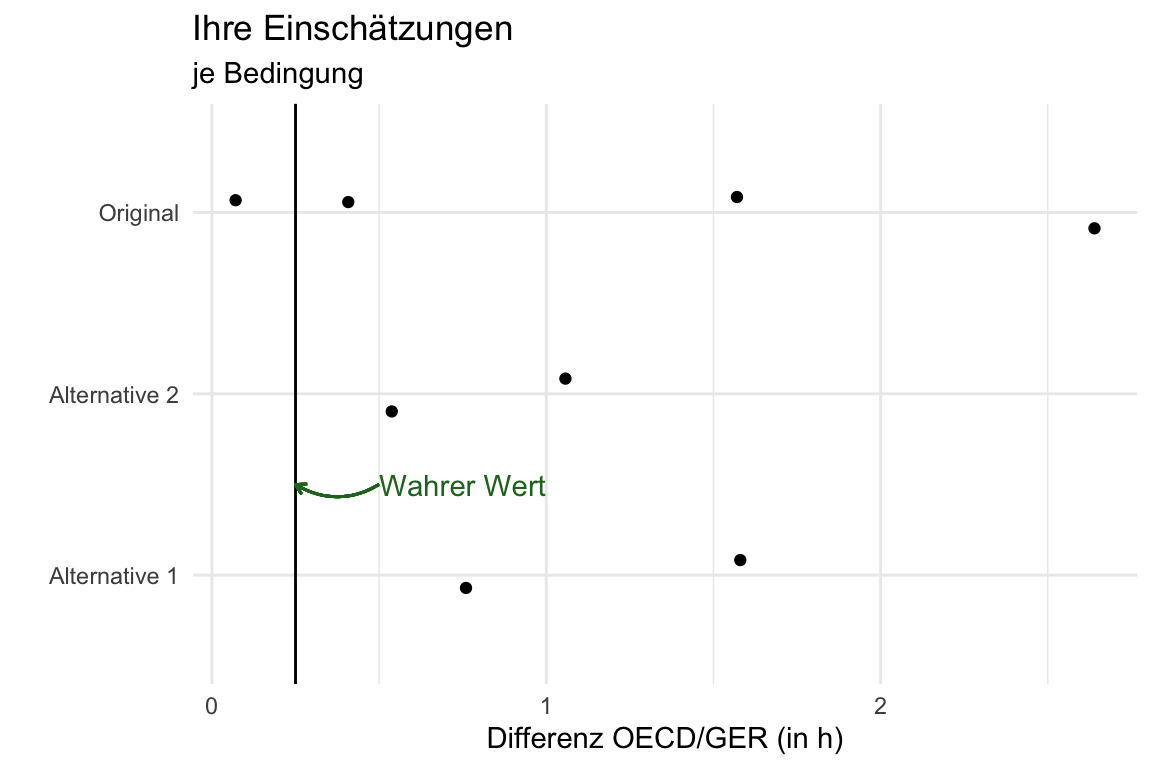
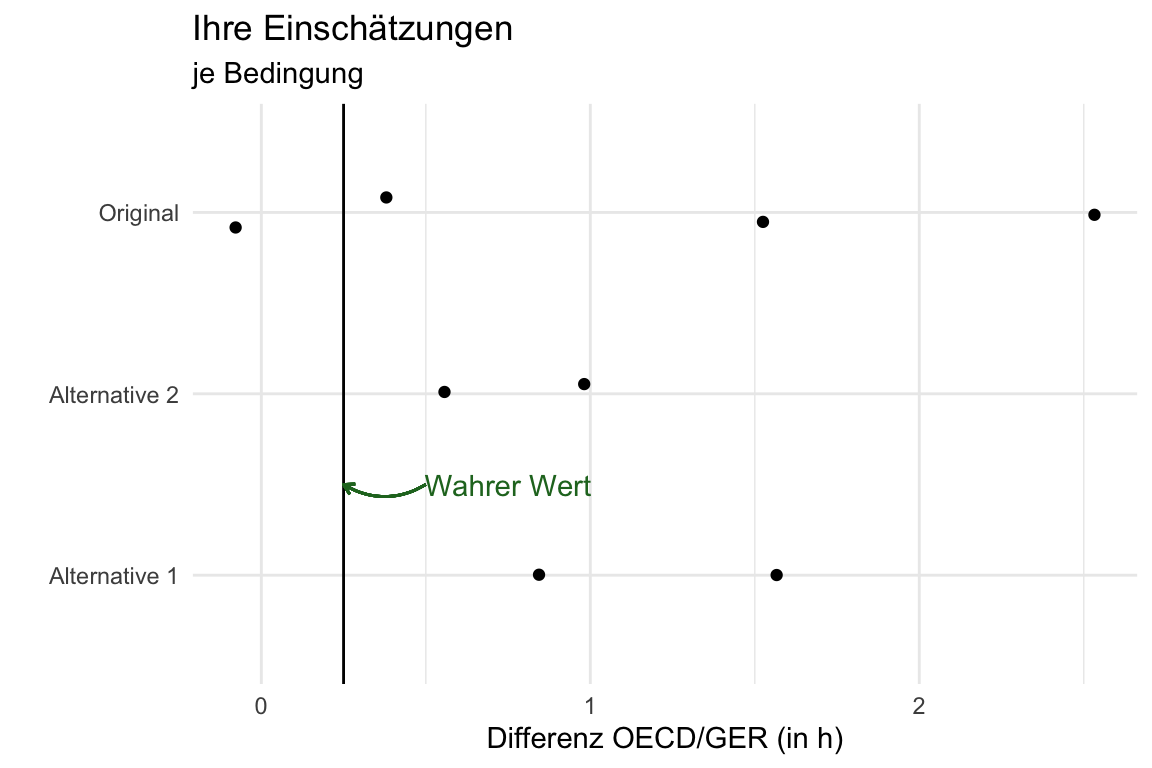
added js mw-diff app

diff --git a/Block03-Effektstaerken/Folien/Integrierte Apps/MW-Einschaetzung-js/index.html b/Block03-Effektstaerken/Folien/Integrierte Apps/MW-Einschaetzung-js/index.html
@@ -1,0 +1,275 @@
+<!DOCTYPE html>
+<html lang="en">
+<head>
+    <meta charset="UTF-8">
+    <meta name="viewport" content="width=device-width, initial-scale=1.0">
+    <title>Observable Notebook - Two Histograms</title>
+    <script src="https://cdnjs.cloudflare.com/ajax/libs/d3/7.8.5/d3.min.js"></script>
+    <style>
+        body {
+            font-family: -apple-system, BlinkMacSystemFont, "Segoe UI", Roboto, sans-serif;
+            margin: 0;
+            padding: 20px;
+            background-color: #fff;
+        }
+        .container {
+            max-width: 800px;
+            margin: 0 auto;
+        }
+        .histogram {
+            margin: 20px 0;
+        }
+        .axis {
+            font-size: 12px;
+        }
+        .axis-label {
+            font-size: 14px;
+            font-weight: 500;
+        }
+        .title {
+            font-size: 18px;
+            font-weight: 600;
+            margin-bottom: 30px;
+            text-align: center;
+        }
+    </style>
+</head>
+<body>
+    <div class="container">
+        <h1 class="title">Histogramme der Bildschirmzeit</h1>
+        <div id="histogram1" class="histogram"></div>
+        <div id="histogram2" class="histogram"></div>
+    </div>
+
+    <script>
+        try {
+            // Approximate inverse normal CDF (quantile function)
+            function qnorm(p) {
+                // Beasley-Springer-Moro algorithm for inverse normal CDF
+                const a = [0, -3.969683028665376e+01, 2.209460984245205e+02, -2.759285104469687e+02, 1.383577518672690e+02, -3.066479806614716e+01, 2.506628277459239e+00];
+                const b = [0, -5.447609879822406e+01, 1.615858368580409e+02, -1.556989798598866e+02, 6.680131188771972e+01, -1.328068155288572e+01];
+                const c = [0, -7.784894002430293e-03, -3.223964580411365e-01, -2.400758277161838e+00, -2.549732539343734e+00, 4.374664141464968e+00, 2.938163982698783e+00];
+                const d = [0, 7.784695709041462e-03, 3.224671290700398e-01, 2.445134137142996e+00, 3.754408661907416e+00];
+
+                const pLow = 0.02425;
+                const pHigh = 1 - pLow;
+                let q, r;
+
+                if (p < pLow) {
+                    q = Math.sqrt(-2 * Math.log(p));
+                    return (((((c[1] * q + c[2]) * q + c[3]) * q + c[4]) * q + c[5]) * q + c[6]) / ((((d[1] * q + d[2]) * q + d[3]) * q + d[4]) * q + 1);
+                } else if (p <= pHigh) {
+                    q = p - 0.5;
+                    r = q * q;
+                    return (((((a[1] * r + a[2]) * r + a[3]) * r + a[4]) * r + a[5]) * r + a[6]) * q / (((((b[1] * r + b[2]) * r + b[3]) * r + b[4]) * r + b[5]) * r + 1);
+                } else {
+                    q = Math.sqrt(-2 * Math.log(1 - p));
+                    return -(((((c[1] * q + c[2]) * q + c[3]) * q + c[4]) * q + c[5]) * q + c[6]) / ((((d[1] * q + d[2]) * q + d[3]) * q + d[4]) * q + 1);
+                }
+            }
+
+            // R's ppoints equivalent: (1:n - 0.5) / n
+            function ppoints(n) {
+                const points = [];
+                for (let i = 1; i <= n; i++) {
+                    points.push((i - 0.5) / n);
+                }
+                return points;
+            }
+
+            // Generate perfectly normally distributed data (R equivalent: qnorm(ppoints(n), mean, sd))
+            function generateNormalData(mean, stdDev, count) {
+                const probabilities = ppoints(count);
+                return probabilities.map(p => qnorm(p) * stdDev + mean);
+            }
+
+            // Function to calculate dynamic x-domain based on both datasets
+            function calculateXDomain(data1, data2) {
+                const allData = [...data1, ...data2];
+                const extent = d3.extent(allData);
+                return [Math.max(0, extent[0] - 0.5), extent[1] + 0.5];
+            }
+
+            // Configuration
+            const mean = 7;
+            const stdDev = 2.5;
+            const sampleSize = 10000;
+            const colors = ['#237326', '#f2f2f2'];
+            let lowerMean = mean;
+
+            // Chart dimensions
+            const margin = { top: 20, right: 30, bottom: 60, left: 60 };
+            const width = 700 - margin.left - margin.right;
+            const height = 250 - margin.bottom - margin.top;
+
+            // Create histogram function
+            function createHistogram(data, containerId, color, xDomain, histogramMean) {
+                // Clear previous content
+                d3.select(containerId).selectAll("*").remove();
+
+                // Create SVG
+                const svg = d3.select(containerId)
+                    .append("svg")
+                    .attr("width", width + margin.left + margin.right)
+                    .attr("height", height + margin.top + margin.bottom);
+
+                const g = svg.append("g")
+                    .attr("transform", `translate(${margin.left},${margin.top})`);
+
+                // Create x scale
+                const xScale = d3.scaleLinear()
+                    .domain(xDomain)
+                    .range([0, width]);
+
+                // Create histogram bins
+                const histogram = d3.histogram()
+                    .value(d => d)
+                    .domain(xScale.domain())
+                    .thresholds(xScale.ticks(20));
+
+                const bins = histogram(data);
+
+                const yScale = d3.scaleLinear()
+                    .domain([0, d3.max(bins, d => d.length)])
+                    .nice()
+                    .range([height, 0]);
+
+                // Create bars
+                g.selectAll(".bar")
+                    .data(bins)
+                    .enter().append("rect")
+                    .attr("class", "bar")
+                    .attr("x", d => xScale(d.x0))
+                    .attr("y", d => yScale(d.length))
+                    .attr("width", d => Math.max(0, xScale(d.x1) - xScale(d.x0) - 1))
+                    .attr("height", d => height - yScale(d.length))
+                    .attr("fill", color)
+                    .attr("stroke", "#333")
+                    .attr("stroke-width", 0.5);
+
+                // Add x-axis
+                g.append("g")
+                    .attr("class", "axis")
+                    .attr("transform", `translate(0,${height})`)
+                    .call(d3.axisBottom(xScale));
+
+                // Add y-axis with German number formatting
+                const germanFormat = d3.format(",");
+                const yAxis = d3.axisLeft(yScale)
+                    .tickFormat(d => germanFormat(d).replace(/,/g, "."));
+                
+                g.append("g")
+                    .attr("class", "axis")
+                    .call(yAxis);
+
+                // Add x-axis label
+                g.append("text")
+                    .attr("class", "axis-label")
+                    .attr("transform", `translate(${width / 2}, ${height + 45})`)
+                    .style("text-anchor", "middle")
+                    .text("Bildschirmzeit");
+
+                // Add y-axis label
+                g.append("text")
+                    .attr("class", "axis-label")
+                    .attr("transform", "rotate(-90)")
+                    .attr("y", 0 - margin.left + 15)
+                    .attr("x", 0 - (height / 2))
+                    .style("text-anchor", "middle")
+                    .text("Anzahl der Kinder");
+
+                // Add histogram title with mean and SD
+                const baseName = containerId === "#histogram1" ? "OECD" : "Deutschland";
+                const title = `${baseName} (MW = ${histogramMean.toFixed(1)}; SD = ${stdDev.toFixed(1)})`;
+                const titleColor = containerId === "#histogram1" ? "#237326" : "#000000";
+                g.append("text")
+                    .attr("class", "histogram-title")
+                    .attr("x", xScale(histogramMean))
+                    .attr("y", -5)
+                    .style("text-anchor", "middle")
+                    .style("font-size", "16px")
+                    .style("font-weight", "600")
+                    .style("fill", titleColor)
+                    .text(title);
+            }
+
+            // Generate initial data
+            let data1 = generateNormalData(mean, stdDev, sampleSize);
+            let data2 = generateNormalData(lowerMean, stdDev, sampleSize);
+            
+            // Calculate dynamic domain
+            let xDomain = calculateXDomain(data1, data2);
+
+            // Create both histograms with same domain
+            createHistogram(data1, "#histogram1", colors[0], xDomain, mean);
+            createHistogram(data2, "#histogram2", colors[1], xDomain, lowerMean);
+
+            // Add button
+            const buttonContainer = d3.select(".container")
+                .append("div")
+                .style("text-align", "center")
+                .style("margin-top", "30px");
+
+            // First button - decrease difference
+            buttonContainer.append("button")
+                .style("padding", "10px 20px")
+                .style("font-size", "14px")
+                .style("background-color", "#d77d00")
+                .style("color", "white")
+                .style("border", "none")
+                .style("border-radius", "5px")
+                .style("cursor", "pointer")
+                .style("margin-right", "10px")
+                .text("- Unterschied verkleinern")
+                .on("click", function() {
+                    try {
+                        // Only decrease if it won't go below 7.0
+                        if (lowerMean - 0.3 >= 7.0) {
+                            lowerMean -= 0.3;
+                            data1 = generateNormalData(mean, stdDev, sampleSize);
+                            data2 = generateNormalData(lowerMean, stdDev, sampleSize);
+                            
+                            // Recalculate dynamic domain for new data
+                            xDomain = calculateXDomain(data1, data2);
+                            
+                            createHistogram(data1, "#histogram1", colors[0], xDomain, mean);
+                            createHistogram(data2, "#histogram2", colors[1], xDomain, lowerMean);
+                        }
+                    } catch (error) {
+                        console.error("Error in button click handler:", error);
+                    }
+                });
+
+            // Second button - increase difference
+            buttonContainer.append("button")
+                .style("padding", "10px 20px")
+                .style("font-size", "14px")
+                .style("background-color", "#d77d00")
+                .style("color", "white")
+                .style("border", "none")
+                .style("border-radius", "5px")
+                .style("cursor", "pointer")
+                .text("+ Unterschied vergrößern")
+                .on("click", function() {
+                    try {
+                        lowerMean += 0.3;
+                        data1 = generateNormalData(mean, stdDev, sampleSize);
+                        data2 = generateNormalData(lowerMean, stdDev, sampleSize);
+                        
+                        // Recalculate dynamic domain for new data
+                        xDomain = calculateXDomain(data1, data2);
+                        
+                        createHistogram(data1, "#histogram1", colors[0], xDomain, mean);
+                        createHistogram(data2, "#histogram2", colors[1], xDomain, lowerMean);
+                    } catch (error) {
+                        console.error("Error in button click handler:", error);
+                    }
+                });
+
+        } catch (error) {
+            console.error("Script initialization error:", error);
+            document.body.innerHTML = "<h2>Error loading visualization. Please check the browser console.</h2>";
+        }
+    </script>
+</body>
+</html>
